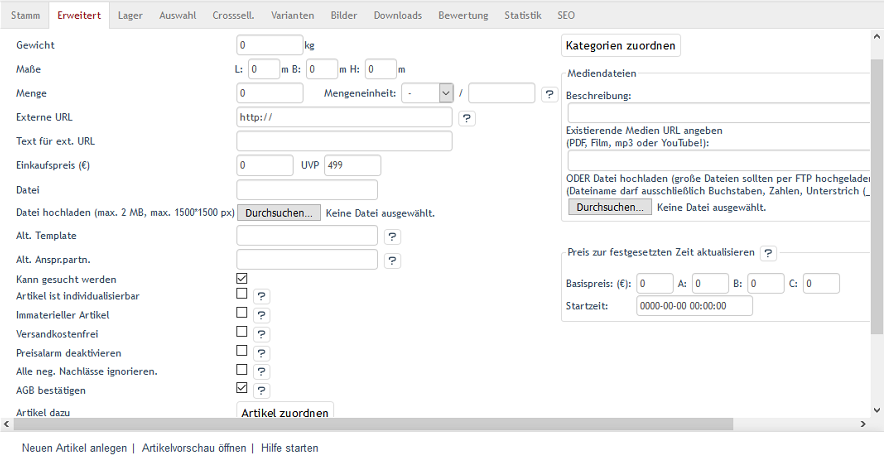
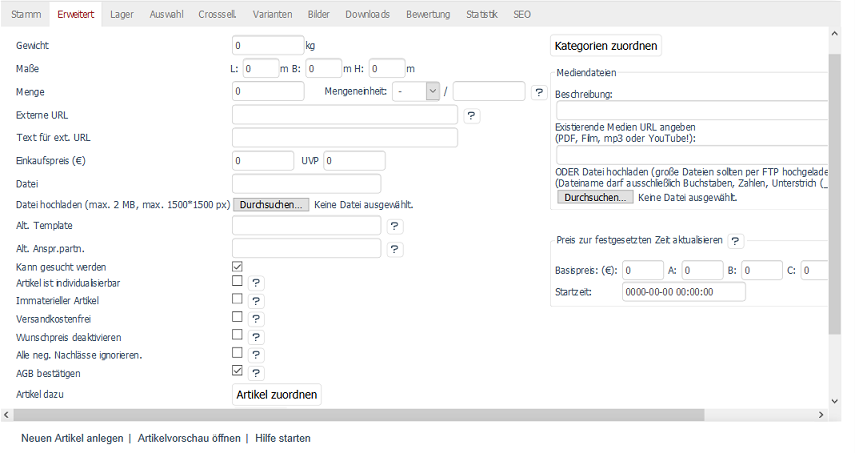
Replaced price alarm with wished price

diff --git a/einrichtung/artikel/registerkarte-erweitert.rst b/einrichtung/artikel/registerkarte-erweitert.rst
@@ -5,7 +5,7 @@ Die Registerkarte :guilabel:`Erweitert` bietet die Möglichkeit, spezielle Eigen
 
 .. image:: ../../media/screenshots/oxbacj01.png
    :alt: Artikel - Registerkarte Erweitert
-   :height: 342
+   :height: 344
    :width: 650
 
 :guilabel:`Gewicht`
@@ -17,9 +17,9 @@ Die Registerkarte :guilabel:`Erweitert` bietet die Möglichkeit, spezielle Eigen
 :guilabel:`Menge` ... :guilabel:`Mengeneinheit`
     Die Angabe von Menge und Mengeneinheit wird für Artikel benötigt, für welche ein Grundpreis angegeben werden muss. Der Grundpreis ist der Preis bezogen auf eine bestimmte Mengeneinheit wie Kilogramm oder Liter. Hinterlegen Sie hier die Menge des Artikels je Mengeneinheit. Wählen Sie eine Mengeneinheit aus der Liste oder tragen Sie eine Mengeneinheit ein, die nicht in der Liste zu finden ist.
 
-   Der Grundpreis wird in der Detailansicht des Artikels angezeigt.
+Der Grundpreis wird in der Detailansicht des Artikels angezeigt.
 
-   Beispiel: Bei einem Artikel, der in einer 1,5 kg-Packung angeboten wird, tragen Sie 1,5 bei Menge ein und wählen :guilabel:`kg` als Mengeneinheit. Angenommen, der Artikel hat einen Preis von 3 €, wäre der Grundpreis 2 €/kg.
+Beispiel: Bei einem Artikel, der in einer 1,5 kg-Packung angeboten wird, tragen Sie 1,5 bei Menge ein und wählen :guilabel:`kg` als Mengeneinheit. Angenommen, der Artikel hat einen Preis von 3 €, wäre der Grundpreis 2 €/kg.
 
 :guilabel:`Externe URL`
    Link auf eine externe Internetseite, beispielsweise die Website des Herstellers, mit weiterführenden Informationen zum Artikel.
@@ -60,10 +60,12 @@ Die Registerkarte :guilabel:`Erweitert` bietet die Möglichkeit, spezielle Eigen
 :guilabel:`Versandkostenfrei`
    Der Artikel wird bei der Versandkostenberechnung nicht berücksichtigt, wenn das Kontrollkästchen angehakt ist. Befindet sich dieser Artikel mit anderen Artikeln im Warenkorb, bedeutet das jedoch nicht, dass damit der gesamte Einkauf versandkostenfrei wird.
 
-:guilabel:`Preisalarm deaktivieren`
-   In der Detailansicht eines Artikels können Kunden den Preisalarm nutzen, indem Sie einen Preis eintragen, zu dem sie den Artikel kaufen würden.
+:guilabel:`Wunschpreis deaktivieren`
+   In der Detailansicht eines Artikels können Kunden die Funktion Wunschpreis nutzen, indem Sie einen Preis eintragen, zu dem sie den Artikel kaufen würden. Im Administrationsbereich werden unter :menuselection:`Kundeninformationen --> Wunschpreis` die Kundenanfragen gesammelt. Der Shopbetreiber kann den Kunden per E-Mail, die vom Shop vorbereitet wurde, informieren, sobald dieser Wunschpreis erreicht wird. Schalten Sie die Funktion Preisalarm hier für einen bestimmten Artikel ab.
 
-   Im Administrationsbereich werden unter :menuselection:`Kundeninformationen --> Preisalarm` die Kundenanfragen gesammelt. Der Shopbetreiber kann den Kunden per E-Mail, die vom Shop vorbereitet wurde, informieren, sobald dieser Wunschpreis erreicht wird. Schalten Sie die Funktion Preisalarm hier für einen bestimmten Artikel ab.
+Die Funktion kann aber auch in den Einstellungen des Themes in der Sektion :guilabel:`Funktionen` für den Shop global aktiviert oder deaktiviert werden.
+
+Wunschpreis hieß bis OXID eShop 6.2.1 Preisalarm.
 
 :guilabel:`Alle neg. Nachlässe ignorieren.`
    Wenn das Kontrollkästchen aktiviert ist, werden für diesen Artikel keine negativen Nachlässe, wie Rabatte und Gutscheine, berechnet.
@@ -112,4 +114,5 @@ In diesem Zuordnungsfenster werden in der linken Liste alle Kategorie angezeigt.
 
 .. seealso:: :doc:`Kategorien <../kategorien/kategorien>` | :doc:`Zuordnung von Artikeln zu Kategorien <../artikel-und-kategorien/zuordnung-von-artikeln-zu-kategorien>` | :doc:`Hauptkategorie eines Artikels <../artikel-und-kategorien/hauptkategorie-eines-artikels>` | :doc:`Preis pro Mengeneinheit (Grundpreis) <../artikel-und-kategorien/preis-pro-mengeneinheit-grundpreis>` | :doc:`Artikel als Zugabe <../../betrieb/rabatte/artikel-als-zugabe>`
 
-.. Intern: oxbacj, Status:, F1: article_extend.html
+
+.. Intern: oxbacj, Status:, F1: article_extend.html, Latitute-images
